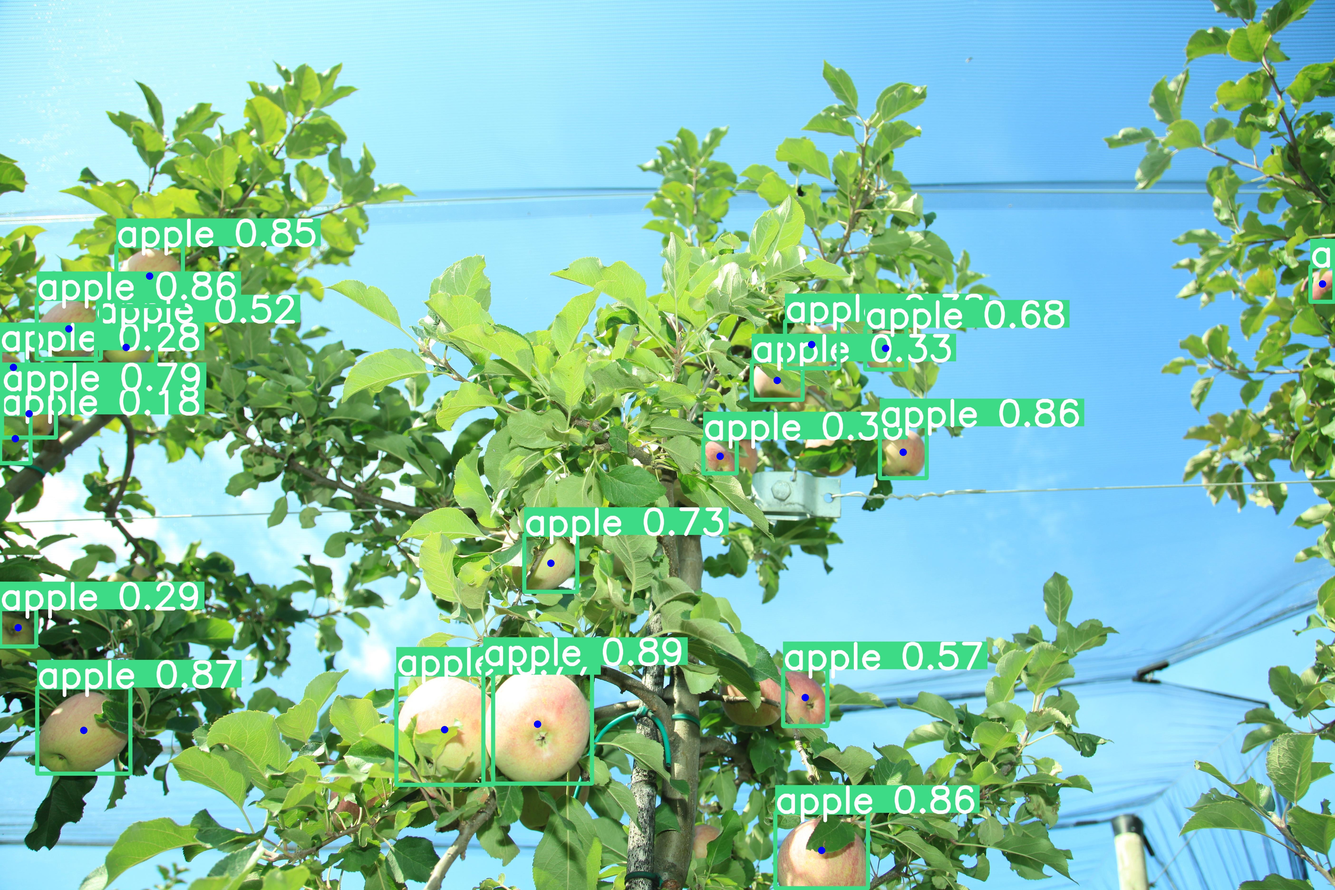
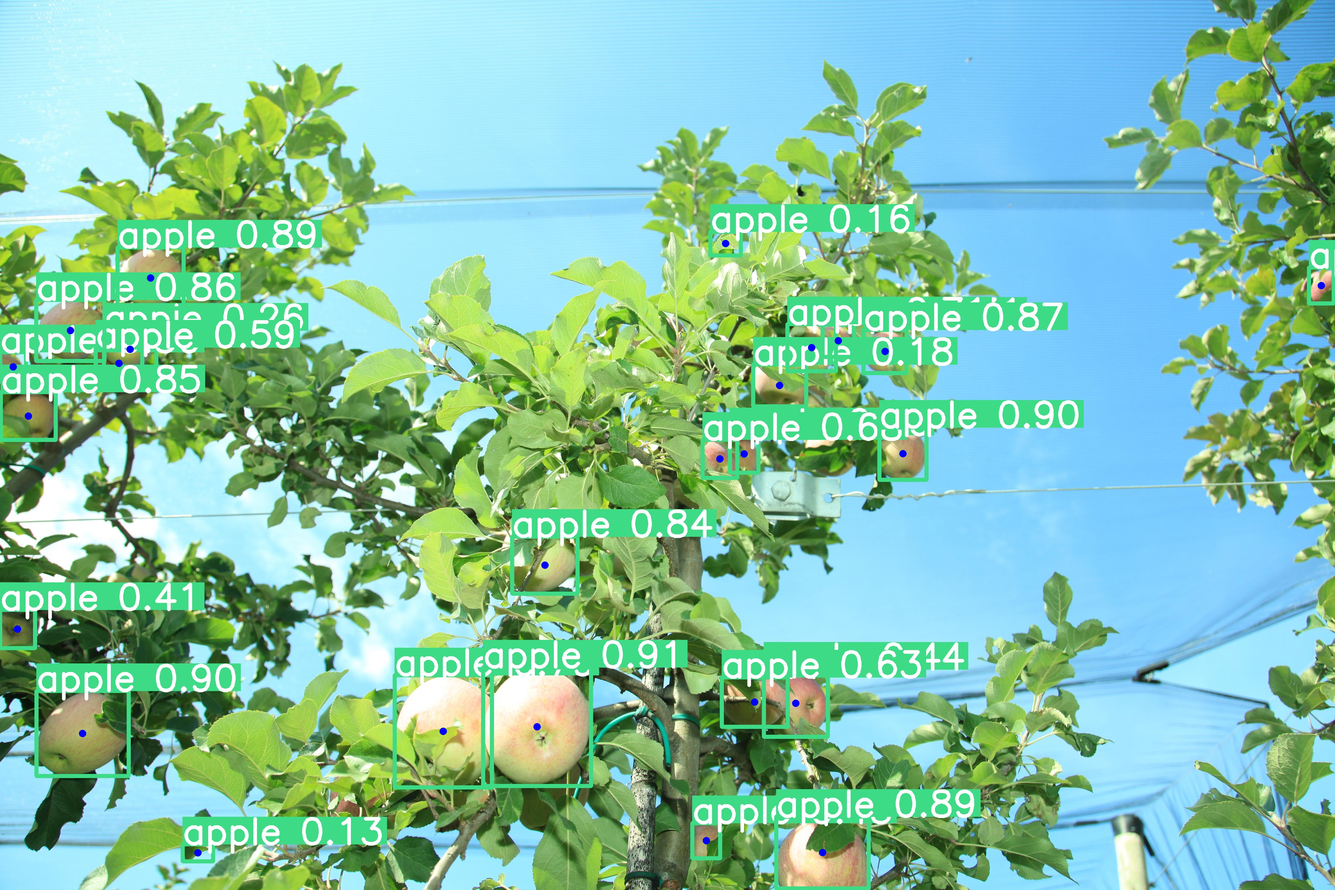
converting to yolov5

diff --git a/src/utils/utils.py b/src/utils/utils.py
@@ -7,11 +7,16 @@ from torch.cuda import device_count
 from .storage import LocalStorageManager
 
 YOLO_MODELS = [
-    "yolov8n.pt",
-    "yolov8s.pt",
-    "yolov8m.pt",
-    "yolov8l.pt",
-    "yolov8x.pt",
+    "yolov5n.pt",
+    "yolov5s.pt",
+    "yolov5m.pt",
+    "yolov5l.pt",
+    "yolov5x.pt",
+    "yolov5n6.pt",
+    "yolov5s6.pt",
+    "yolov5m6.pt",
+    "yolov5l6.pt",
+    "yolov5x6.pt",
 ]
 
 DEVICES = ["cpu"] + [f"cuda:{n}" for n in range(device_count())]

diff --git a/README.md b/README.md
@@ -3,9 +3,9 @@
 
 ## Overview
 
-This script serves as an object detector based on the latest version of YOLO, specifically YOLOv8. 
-You can find the YOLO repository [here](https://github.com/ultralytics/ultralytics) 
-and the official YOLO documentation [here](https://docs.ultralytics.com/).
+This script serves as an object detector based on the latest version of YOLO, specifically YOLOv5. 
+You can find the YOLO repository [here](https://github.com/ultralytics/yolov5) 
+and the official YOLO documentation [here](https://docs.ultralytics.com/yolov5/).
 
 The default configuration is tailored for apple detection, yet it's easily adaptable to any subset of YOLO detection classes. 
 The script outputs a JSON file containing the positions of detected objects. 
@@ -87,12 +87,12 @@ This section outlines the configurable parameters in the `configs` folder. Adjus
 ### YOLO Model Initialization Parameters
 
 - **`YOLO_model`**: Specifies the YOLO model to use for detection. 
-Options, from smallest/less performant to heavier/most performant: "yolov8n.pt", "yolov8s.pt", "yolov8m.pt", "yolov8l.pt", "yolov8x.pt". 
-Refer to the [YOLO documentation](https://docs.ultralytics.com/) for details.
+Options, from smallest/less performant to heavier/most performant: "yolov5n.pt", "yolov5s.pt", "yolov5m.pt", "yolov5l.pt", "yolov5x.pt", "yolov5n6.pt", "yolov5s6.pt", "yolov5m6.pt", "yolov5l6.pt", "yolov5x6.pt". 
+Refer to the [YOLO documentation](https://docs.ultralytics.com/yolov5/) for details.
 
 - **`device`**: Sets the device to run the model. 
 Options: "cpu" or "cuda:n" (replace n with the index of the available CUDA device). 
-Check CUDA device availability with `torch.cuda.is_available()` and the number of available devices with `torch.cuda.device_count()`.
+Check CUDA device availability with `python3 -c "import torch; print(torch.cuda.is_available())"` and the number of available devices with `python3 -c "import torch; print(torch.cuda.device_count())"`.
 
 ### Model Prediction Parameters
 
